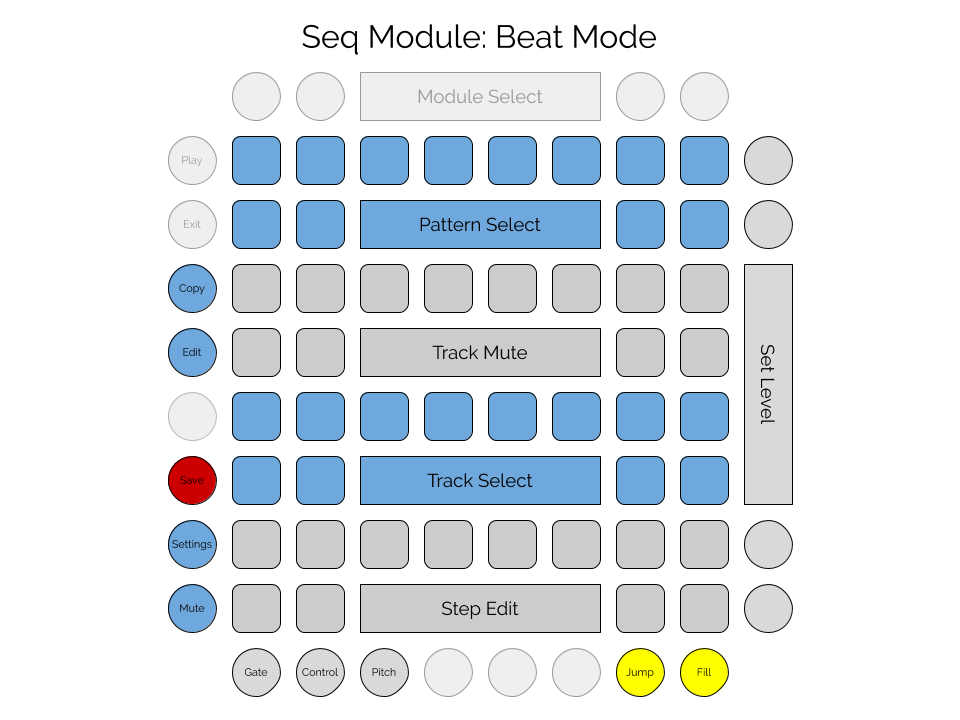
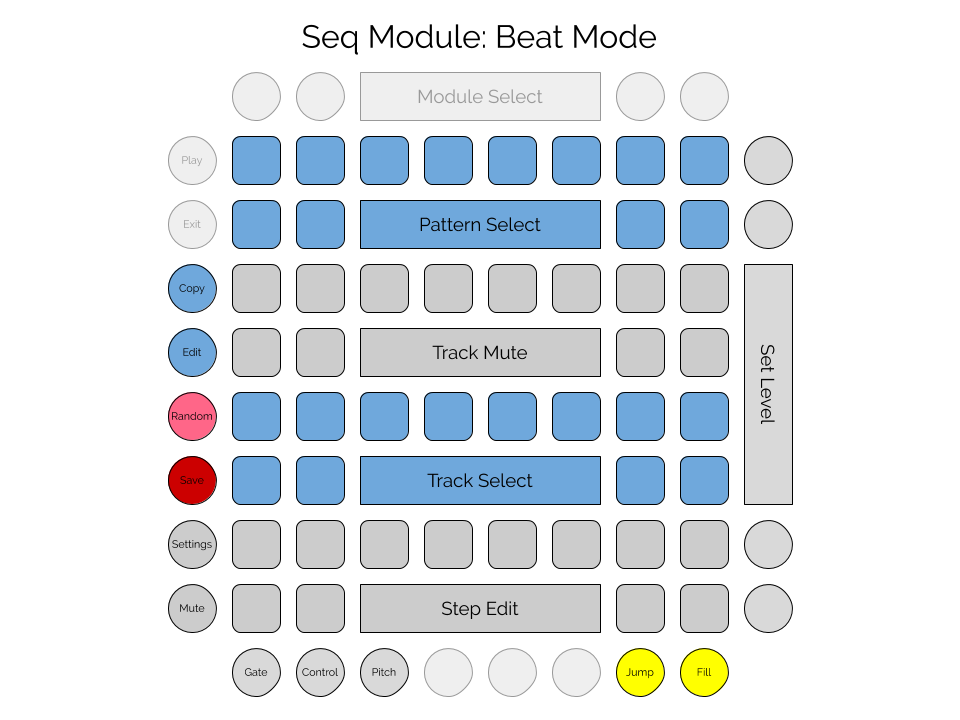
Adding a randomize function, which can generate random values or "blur" certain values when held down.

Changed region(s): [[0.1562, 0.7028, 0.25, 0.8861], [0.1562, 0.5194, 0.25, 0.6111]]

diff --git a/src/main/java/net/perkowitz/issho/hachi/modules/seq/SeqModule.java b/src/main/java/net/perkowitz/issho/hachi/modules/seq/SeqModule.java
@@ -70,6 +70,7 @@ public class SeqModule extends MidiModule implements Module, Clockable, GridList
     private List<Integer> patternEditIndexBuffer = Lists.newArrayList();
     private boolean patternEditing = false;
     private boolean patternSelecting = false;
+    private boolean randomizing = false;
     private EditMode editMode = GATE;
     private List<Integer> onNotes = Lists.newArrayList(); // TODO: list or Set?
     @Setter private List<Integer> sessionPrograms = Lists.newArrayList();
@@ -161,7 +162,7 @@ public class SeqModule extends MidiModule implements Module, Clockable, GridList
                 SeqControlStep controlStep = controlTrack.getStep(nextStepIndex);
                 Integer controlNumber = controllerNumbers.get(controlTrack.getIndex());
                 if (controlNumber != null && controlStep.isEnabled()) {
-                    sendMidiCC(memory.getMidiChannel(), controlNumber, controlStep.getValue());
+                    sendMidiCC(memory.getMidiChannel(), controlNumber, controlStep.Value());
                     controlTrack.setPlaying(true);
                 }
             }
@@ -428,6 +429,10 @@ public class SeqModule extends MidiModule implements Module, Clockable, GridList
             patternSelecting = true;
             seqDisplay.drawControl(control, true);
 
+        } else if (control.equals(randomControl)) {
+            randomizing = true;
+            seqDisplay.drawControl(control, true);
+
         } else if (patternPlayControls.contains(control)) {
             int index = patternPlayControls.getIndex(control);
             if (patternEditing) {
@@ -489,6 +494,24 @@ public class SeqModule extends MidiModule implements Module, Clockable, GridList
         } else if (mode == MONO && (editMode == GATE || editMode == STEP) && trackSelectControls.contains(control)) {
             // if it's in the trackSelectControls but not in the keyboard, do nothing
 
+        } else if (randomizing && trackSelectControls.contains(control)) {
+            int index = trackSelectControls.getIndex(control);
+            switch (editMode) {
+                case GATE:
+                    break;
+                case CONTROL:
+                    memory.selectControlTrack(index);
+                    SeqControlTrack track = memory.getSelectedControlTrack();
+                    seqDisplay.drawTracks(memory);
+                    track.randomize();
+                    seqDisplay.drawSteps(memory);
+                    break;
+                case PITCH:
+                    break;
+                case JUMP:
+                    break;
+            }
+
         } else if (trackSelectControls.contains(control)) {
             int index = trackSelectControls.getIndex(control);
             switch (editMode) {
@@ -520,6 +543,9 @@ public class SeqModule extends MidiModule implements Module, Clockable, GridList
             int index = octaveControls.getIndex(control);
             SeqStep step = memory.getSelectedTrack().getStep(selectedStep);
             step.setOctave(index);
+            if (randomizing) {
+                step.setOctaveBlurred(!step.isOctaveBlurred());
+            }
             seqDisplay.drawModifiers(memory);
 
         } else if (mode == MONO && editMode == STEP && octaveControls.contains(control)) {
@@ -528,9 +554,28 @@ public class SeqModule extends MidiModule implements Module, Clockable, GridList
             seqDisplay.setCurrentOctave(currentOctave);
             seqDisplay.drawModifiers(memory);
 
+        } else if (randomizing && stepControls.contains(control)) {
+            int index = stepControls.getIndex(control);
+            switch (editMode) {
+                case GATE:
+                case STEP:
+                    break;
+                case CONTROL:
+                    selectedControlStep = index;
+                    SeqControlTrack track = memory.getSelectedControlTrack();
+                    SeqControlStep controlStep = track.getStep(index);
+                    controlStep.setBlurred(!controlStep.isBlurred());
+                    seqDisplay.drawSteps(memory);
+                    seqDisplay.drawValue(controlStep.getValue(), 127);
+                    break;
+                case PITCH:
+                    break;
+                case JUMP:
+                    break;
+            }
+
         } else if (stepControls.contains(control)) {
             int index = stepControls.getIndex(control);
-            SeqStep step = memory.getSelectedTrack().getStep(index);
             switch (editMode) {
                 case GATE:
                 case STEP:
@@ -676,6 +721,10 @@ public class SeqModule extends MidiModule implements Module, Clockable, GridList
             patternSelecting = false;
             seqDisplay.drawControl(control, false);
 
+        } else if (control.equals(randomControl)) {
+            randomizing = false;
+            seqDisplay.drawControl(control, false);
+
         } else if (patternPlayControls.contains(control)) {
             // releasing a pattern pad
             // don't activate until the last pattern pad is released (so additional releases don't look like a new press/release)
@@ -721,7 +770,7 @@ public class SeqModule extends MidiModule implements Module, Clockable, GridList
                     break;
             }
 
-        } else if (stepControls.contains(control)) {
+        } else if (!randomizing && stepControls.contains(control)) {
             int index = stepControls.getIndex(control);
             SeqStep step = memory.getSelectedTrack().getStep(index);
             switch (editMode) {

diff --git a/src/main/java/net/perkowitz/issho/hachi/modules/seq/SeqUtil.java b/src/main/java/net/perkowitz/issho/hachi/modules/seq/SeqUtil.java
@@ -40,7 +40,7 @@ public class SeqUtil {
 
     /***** controls *****************/
 
-    // a GridControlSet containing all the buttons along the bottom
+    // a GridControlSet containing all the buttons along the right
     public static GridControlSet valueControls = GridControlSet.buttonSide(Right);
 
     // GridControlSets for rows of pads
@@ -80,12 +80,13 @@ public class SeqUtil {
     public static GridControl stepRestControl = new GridControl(GridPad.at(7, KEYBOARD_BLACK_ROW), 0);
     public static GridControl stepTieControl = new GridControl(GridPad.at(7, KEYBOARD_WHITE_ROW), 0);
 
-    // left controls
-    public static GridControl muteControl = new GridControl(GridButton.at(Left, 7), null);
-    public static GridControl settingsControl = new GridControl(GridButton.at(Left, 6), null);
-    public static GridControl saveControl = new GridControl(GridButton.at(Left, 5), null);
+    // left controls (index 0 and 1 are used by the main Hachi control)
     public static GridControl copyControl = new GridControl(GridButton.at(Left, 2), null);
     public static GridControl patternSelectControl = new GridControl(GridButton.at(Left, 3), null);
+    public static GridControl randomControl = new GridControl(GridButton.at(Left, 4), null);
+    public static GridControl saveControl = new GridControl(GridButton.at(Left, 5), null);
+    public static GridControl settingsControl = new GridControl(GridButton.at(Left, 6), null);
+    public static GridControl muteControl = new GridControl(GridButton.at(Left, 7), null);
 
     // edit mode controls
     public static GridControlSet editModeControls = GridControlSet.buttonSide(Bottom, 0, 2);
@@ -137,6 +138,8 @@ public class SeqUtil {
     public static Integer COLOR_LEFT_PATTERNS_ON = 63;
     public static Integer COLOR_LEFT_SAVE_OFF = 64;
     public static Integer COLOR_LEFT_SAVE_ON = 65;
+    public static Integer COLOR_RANDOM = 70;
+    public static Integer COLOR_RANDOM_DIM = 71;
 
 
     public static Map<Integer, Color> createPalette(Color playColor) {
@@ -146,9 +149,15 @@ public class SeqUtil {
         Color highlightColor = Color.BRIGHT_YELLOW;
         Color highlightColorMid = Color.fromIndex(Color.yellows[2]);
         Color highlightColorDim = Color.DIM_YELLOW;
+        Color randomColor = Color.BRIGHT_PINK;
+        Color randomColorDim = Color.DIM_PINK;
         if (playColor == Color.BRIGHT_YELLOW) {
             highlightColor = Color.BRIGHT_PURPLE;
             highlightColorDim = Color.DIM_PURPLE;
+        }
+        if (playColor == Color.BRIGHT_PINK) {
+            randomColor = Color.BRIGHT_PURPLE;
+            randomColorDim = Color.DIM_PURPLE;
         }
         palette.put(COLOR_OFF, playColorDim);
         palette.put(COLOR_ON, Color.WHITE);
@@ -181,6 +190,8 @@ public class SeqUtil {
         palette.put(COLOR_LEFT_PATTERNS_ON, Color.WHITE);
         palette.put(COLOR_LEFT_SAVE_OFF, Color.DIM_RED);
         palette.put(COLOR_LEFT_SAVE_ON, Color.BRIGHT_RED);
+        palette.put(COLOR_RANDOM, randomColor);
+        palette.put(COLOR_RANDOM_DIM, randomColorDim);
         return palette;
     }
 

diff --git a/src/main/java/net/perkowitz/issho/hachi/modules/seq/SeqDisplay.java b/src/main/java/net/perkowitz/issho/hachi/modules/seq/SeqDisplay.java
@@ -284,7 +284,11 @@ public class SeqDisplay {
             if (editMode == STEP) {
                 octaveControls.get(currentOctave).draw(display, palette.get(COLOR_PATTERN_SELECTED));
             } else {
-                octaveControls.get(step.getOctave()).draw(display, palette.get(COLOR_PATTERN_SELECTED));
+                Color color = palette.get(COLOR_PATTERN_SELECTED);
+                if (step.isOctaveBlurred()) {
+                    color = palette.get(COLOR_RANDOM);
+                }
+                octaveControls.get(step.getOctave()).draw(display, color);
             }
             if (playingStep != null) {
                 octaveControls.get(playingStep.getOctave()).draw(display, palette.get(COLOR_PATTERN_PLAYING));
@@ -304,6 +308,9 @@ public class SeqDisplay {
             SeqControlStep step = track.getStep(index);
             if (step.isEnabled()) {
                 color = palette.get(COLOR_STEP_PLAY);
+                if (step.isBlurred()) {
+                    color = palette.get(COLOR_RANDOM);
+                }
             }
             control.draw(display, color);
         }
@@ -330,17 +337,20 @@ public class SeqDisplay {
     }
 
     public void drawLeftControls() {
-        drawControl(settingsControl, settingsView);
-        drawControl(muteControl, isMuted);
-        drawControl(saveControl, false);
         drawControl(copyControl, false);
         drawControl(patternSelectControl, false);
+        drawControl(randomControl, false);
+        drawControl(saveControl, false);
+        drawControl(settingsControl, settingsView);
+        drawControl(muteControl, isMuted);
     }
 
     public void drawControl(GridControl control, boolean isOn) {
         Color color = palette.get(isOn ? COLOR_ON : COLOR_OFF);;
         if (settingsControl.equals(control) || muteControl.equals(control)) {
             color = palette.get(isOn ? COLOR_LEFT_DEFAULT_ON : COLOR_LEFT_DEFAULT_OFF);
+        } else if (randomControl.equals(control)) {
+            color = palette.get(isOn ? COLOR_RANDOM : COLOR_RANDOM_DIM);
         } else if (copyControl.equals(control) || patternSelectControl.equals(control)) {
             color = palette.get(isOn ? COLOR_LEFT_PATTERNS_ON : COLOR_LEFT_PATTERNS_OFF);
         } else if (saveControl.equals(control)) {

diff --git a/src/main/java/net/perkowitz/issho/hachi/modules/seq/SeqStep.java b/src/main/java/net/perkowitz/issho/hachi/modules/seq/SeqStep.java
@@ -19,11 +19,13 @@ public class SeqStep {
     private static int MAX_OCTAVE = 10;
     private static int DEFAULT_VELOCITY = 80;
     private static int MAX_VELOCITY = 127;
+    private static int OCTAVE_BLUR_RANGE = 1;
 
     @Getter private int index;
     @Getter private int semitone;
     @Getter private int octave;
     @Getter private int velocity;
+    @Getter @Setter boolean octaveBlurred = false;
     @Getter @Setter private boolean enabled = false;
     @Getter @Setter private GateMode gateMode = GateMode.REST;
 
@@ -64,6 +66,15 @@ public class SeqStep {
         } else {
             this.semitone = semitone;
         }
+    }
+
+    // Octave returns the step octave adjusted by blurring.
+    public int Octave() {
+        int o = octave;
+        if (octaveBlurred) {
+            o += (int)Math.floor(Math.random() * (2 * OCTAVE_BLUR_RANGE +1)) - OCTAVE_BLUR_RANGE;
+        }
+        return Math.max(0, Math.min(MAX_OCTAVE, o));
     }
 
     public void setOctave(int octave) {
@@ -115,7 +126,7 @@ public class SeqStep {
 
     @JsonIgnore
     public int getNote() {
-        return octave * 12 + semitone;
+        return Octave() * 12 + semitone;
     }
 
     /***** static methods **************************/

diff --git a/src/main/java/net/perkowitz/issho/hachi/modules/seq/SeqControlStep.java b/src/main/java/net/perkowitz/issho/hachi/modules/seq/SeqControlStep.java
@@ -2,7 +2,6 @@ package net.perkowitz.issho.hachi.modules.seq;
 
 import lombok.Getter;
 import lombok.Setter;
-import net.perkowitz.issho.util.MidiUtil;
 
 /**
  * Created by optic on 2/25/17.
@@ -11,10 +10,12 @@ public class SeqControlStep {
 
     public static int RESET_VALUE = 0;
     public static int MAX_VALUE = 127;
+    private static int BLUR_RANGE = 32;
 
     @Getter private int index;
     @Getter @Setter private boolean enabled = false;
     @Getter private int value;
+    @Getter @Setter private boolean blurred = false;
 
     public SeqControlStep() {}
 
@@ -32,6 +33,15 @@ public class SeqControlStep {
 
     public String toString() {
         return String.format("SeqCtrlStep:%02d", index);
+    }
+
+    // Value returns the step value adjusted by blurring, if enabled.
+    public int Value() {
+        int v = value;
+        if (blurred) {
+            v += (int)Math.floor(Math.random() * 2 * BLUR_RANGE) - BLUR_RANGE;
+        }
+        return Math.max(0, Math.min(127, v));
     }
 
     public void setValue(int value) {

diff --git a/src/main/java/net/perkowitz/issho/hachi/modules/seq/SeqControlTrack.java b/src/main/java/net/perkowitz/issho/hachi/modules/seq/SeqControlTrack.java
@@ -34,6 +34,14 @@ public class SeqControlTrack {
         return String.format("SeqCtrlTrack:%02d", index);
     }
 
+    public void randomize() {
+        for (SeqControlStep step : steps) {
+            int v = (int)Math.floor(Math.random() * 128);
+//            step.setEnabled(true);
+            step.setValue(v);
+        }
+    }
+
     /***** static methods **************************/
 
     public static SeqControlTrack copy(SeqControlTrack track, int newIndex) {

diff --git a/doc/hachi/modules/seq.md b/doc/hachi/modules/seq.md
@@ -49,6 +49,20 @@ to set the velocity to that value. For in-between values, press and hold a butto
 a button below or above the held button to decrease or increase the value. Tapping a button right next to the held button
 will change the value by 1; tapping a button farther away will change the value by 5.   
 
+### Random
+
+The random button on the left can be used to apply randomness to various aspects of Seq. To randomize something,
+hold down the random button and then tap the pad for whatever you want to randomize. There are two ways to 
+introduce randomness into Seq. First, to **generate** something is to give it a randomly chosen value;
+it will always have that same value until it is randomized again or set to a specific value. Second, to **blur**
+something is to set it to output a random value within some range of its programmed value. Generally speaking, randomizing
+a single thing (e.g. a step) will **blur** it; randomizing a set of things (e.g. a track) will **generate**
+each individual thing. Re-randomizing a generated thing will simply generate a new value; re-randomizing
+a blurred thing will remove the blur. Randomness will be indicated by a color (pink in most palettes); 
+blurred items will show in that color. 
+
+Specific uses will be explained for each Seq mode below.
+
 ## Beat mode
 
 Beat mode provides a drum-machine style interface for programming 16 drum trigger tracks, which can 
@@ -132,6 +146,15 @@ The fill button can be used to play fills at any time. When the button is presse
 as long as the button is held down. Seq's fill patterns aren't actually preset patterns; they're generated by rearranging the current
 pattern in various ways to produce a fill. 
 
+### Random
+
+In beat mode, the following things can be randomized by holding random and tapping them:
+- In the gate view:
+    - Randomizing a step will blur the velocity for that step.
+- In the control view:
+    - Randomizing a track will generate values for each step in the track (but will not change enabled/disabled for each step).
+    - Randomizing a step will blur it. 
+
 ## Mono mode
 
 Mono mode provides a monophonic melodic sequencer for programming melodies across a range of 8 octaves.
@@ -170,6 +193,16 @@ tap the corresponding step pad.
 ### Other views
 
 The control, pitch, jump, and fill views function the same in Mono mode as they do in Beat mode.
+
+### Random
+
+In mono mode, the following things can be randomized by holding random and tapping them:
+- In the gate view:
+    - Randomizing a step will select the step and blur the velocity for that step.
+    - Randomizing an octave button will set that octave value and blur the octave for the currently selected step.
+- In the control view:
+    - Randomizing a track will select the track and generate values for each step in the track.
+    - Randomizing a step will blur it. 
 
 ## Settings View
 
